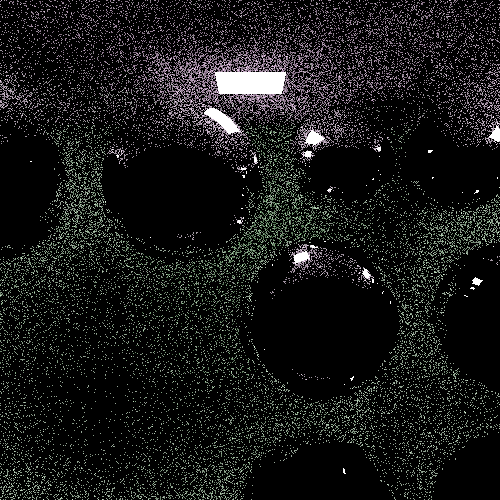
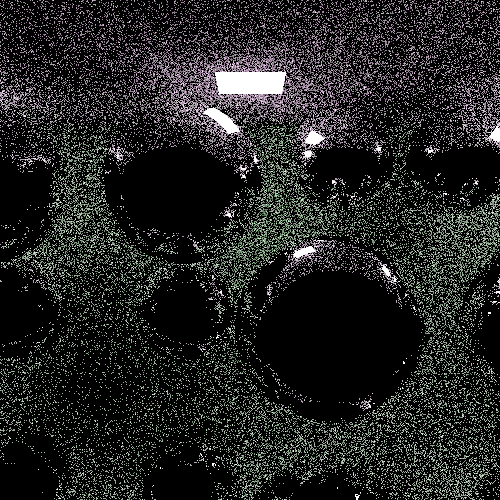
jojo

Changed region(s): [[0.0, 0.0, 1.0, 1.0], [0.69, 0.99, 0.72, 1.0], [0.54, 0.99, 0.57, 1.0]]

diff --git a/main.go b/main.go
@@ -270,8 +270,8 @@ func main() {
 			object.Triangle{vec3.Vec3{0, 0, room_size}, vec3.Vec3{0, room_size, room_size}, vec3.Vec3{room_size, room_size, room_size}, diffuse_pdf, green},
 			object.Triangle{vec3.Vec3{0, 0, room_size}, vec3.Vec3{room_size, room_size, room_size}, vec3.Vec3{room_size, 0, room_size}, diffuse_pdf, green},
 			// left wall
-			object.Triangle{vec3.Vec3{0, 0, 0}, vec3.Vec3{0, room_size, 0}, vec3.Vec3{0, room_size, room_size}, specular_pdf, white},
-			object.Triangle{vec3.Vec3{0, 0, 0}, vec3.Vec3{0, room_size, room_size}, vec3.Vec3{0, 0, room_size}, specular_pdf, white},
+			object.Triangle{vec3.Vec3{0, 0, 0}, vec3.Vec3{0, room_size, 0}, vec3.Vec3{0, room_size, room_size}, diffuse_pdf, red},
+			object.Triangle{vec3.Vec3{0, 0, 0}, vec3.Vec3{0, room_size, room_size}, vec3.Vec3{0, 0, room_size}, diffuse_pdf, red},
 			// right wall
 			object.Triangle{vec3.Vec3{room_size, room_size, room_size}, vec3.Vec3{room_size, room_size, 0}, vec3.Vec3{room_size, 0, 0}, specular_pdf, white},
 			object.Triangle{vec3.Vec3{room_size, 0, room_size}, vec3.Vec3{room_size, room_size, room_size}, vec3.Vec3{room_size, 0, 0}, specular_pdf, white},
@@ -396,7 +396,7 @@ func main() {
 	}
 
 	sphere2 := object.Sphere {
-		vec3.Vec3{350, 350, 250},
+		vec3.Vec3{350, 350, 150},
 		120.0,
 		specular_pdf,
 		white,
@@ -404,6 +404,13 @@ func main() {
 
 	sphere3 := object.Sphere {
 		vec3.Vec3{400, 100, 350},
+		90.0,
+		specular_pdf,
+		white,
+	}
+
+	sphere4 := object.Sphere {
+		vec3.Vec3{150, 350, 350},
 		90.0,
 		specular_pdf,
 		white,
@@ -445,7 +452,7 @@ func main() {
 	_ = sphere1
 
 	objects = append(objects, room, lamp1)
-	spheres = append(spheres, sphere1, sphere2, sphere3)
+	spheres = append(spheres, sphere1, sphere2, sphere3, sphere4)
 
 	// CPU profiling by default
 	// defer profile.Start().Stop()
@@ -459,7 +466,7 @@ func main() {
 	// how many times a single pixel is sampled
 	pixel_samples, err := strconv.Atoi(string(os.Args[1]))
 	// how many times a ray bounces
-	hops               := 7
+	hops               := 15
 	
 	renderer.SetDrawColor(0, 0, 0, 255)
 	renderer.Clear()

diff --git a/README.md b/README.md
@@ -2,4 +2,6 @@
 
 # Showcase
 
+![img](https://github.com/supermuesli/pathtracer/blob/master/output@10000_samples.png)
 ![img](https://github.com/supermuesli/pathtracer/blob/master/output@1025_samples.png)
+![img](https://github.com/supermuesli/pathtracer/blob/master/output@3025_samples.png)
